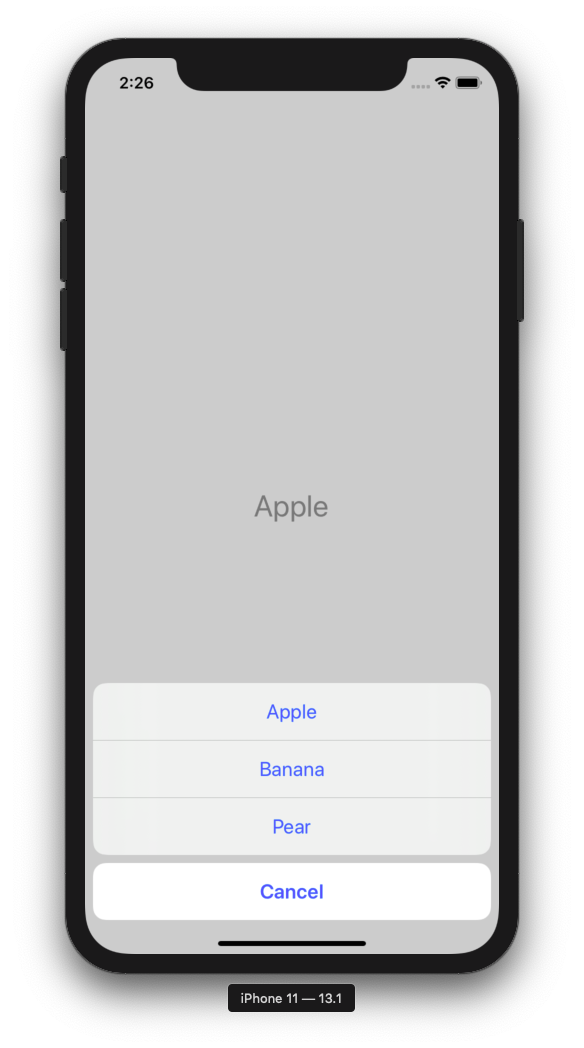
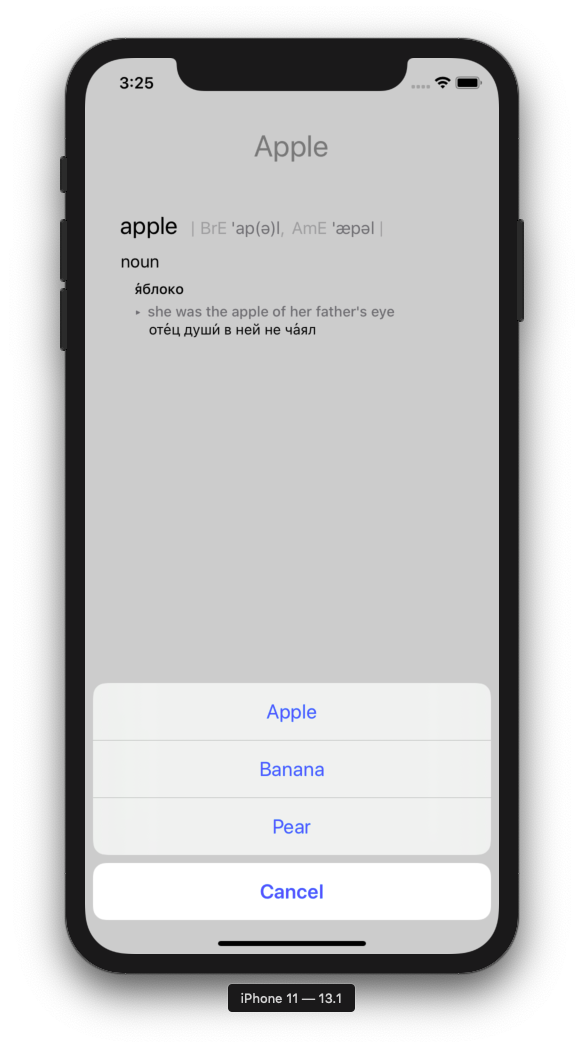
Display content from reference library in web view

diff --git a/Reference Library/View Controllers/ReferenceLibraryViewController.swift b/Reference Library/View Controllers/ReferenceLibraryViewController.swift
@@ -7,14 +7,51 @@
 //
 
 import UIKit
+import WebKit
 
 class ReferenceLibraryViewController: UIReferenceLibraryViewController {
     // MARK: - Properties
     var delegate: ViewControllerDelegate?
     
+    // MARK: - Custom Methods
+    func findWKWebView() {
+        guard var currentView = view else { return }
+        
+        while currentView.subviews.count != 0 {
+            if let webView = currentView as? WKWebView {
+                webView.navigationDelegate = self
+            }
+            
+            if let subview = currentView.subviews.first {
+                currentView = subview
+            }
+        }
+    }
+    
     // MARK: - UIViewController Methods
+    override func viewDidAppear(_ animated: Bool) {
+        super.viewDidAppear(animated)
+        findWKWebView()
+    }
+    
     override func viewDidDisappear(_ animated: Bool) {
         super.viewDidDisappear(animated)
         delegate?.presentAlert()
+    }
+}
+
+// MARK: - WKNavigationDelegate
+extension ReferenceLibraryViewController: WKNavigationDelegate {
+    func webView(_ webView: WKWebView, didFinish navigation: WKNavigation!) {
+        webView.evaluateJavaScript(
+            "document.documentElement.outerHTML.toString()",
+            completionHandler: { html, error in
+                if let html = html as? String {
+                    self.delegate?.updateWebView(with: html)
+                } else {
+                    print(#line, #function, "ERROR \(error?.localizedDescription ?? "")")
+                }
+            }
+        )
     }
 }

diff --git a/Reference Library/View Controllers/ViewController.swift b/Reference Library/View Controllers/ViewController.swift
@@ -7,11 +7,13 @@
 //
 
 import UIKit
+import WebKit
 
 class ViewController: UIViewController {
     
     // MARK: - Outlets
     @IBOutlet var button: UIButton!
+    @IBOutlet var webView: WKWebView!
     
     // MARK: - Properties
     let terms = ["Apple", "Banana", "Pear"]
@@ -57,5 +59,9 @@ extension ViewController: ViewControllerDelegate {
         }
         
         present(alert, animated: true)
+    }
+    
+    func updateWebView(with html: String) {
+        webView.loadHTMLString(html, baseURL: nil)
     }
 }

diff --git a/Reference Library/Protocols/ViewControllerDelegate.swift b/Reference Library/Protocols/ViewControllerDelegate.swift
@@ -8,4 +8,5 @@
 
 protocol ViewControllerDelegate {
     func presentAlert()
+    func updateWebView(with html: String)
 }
